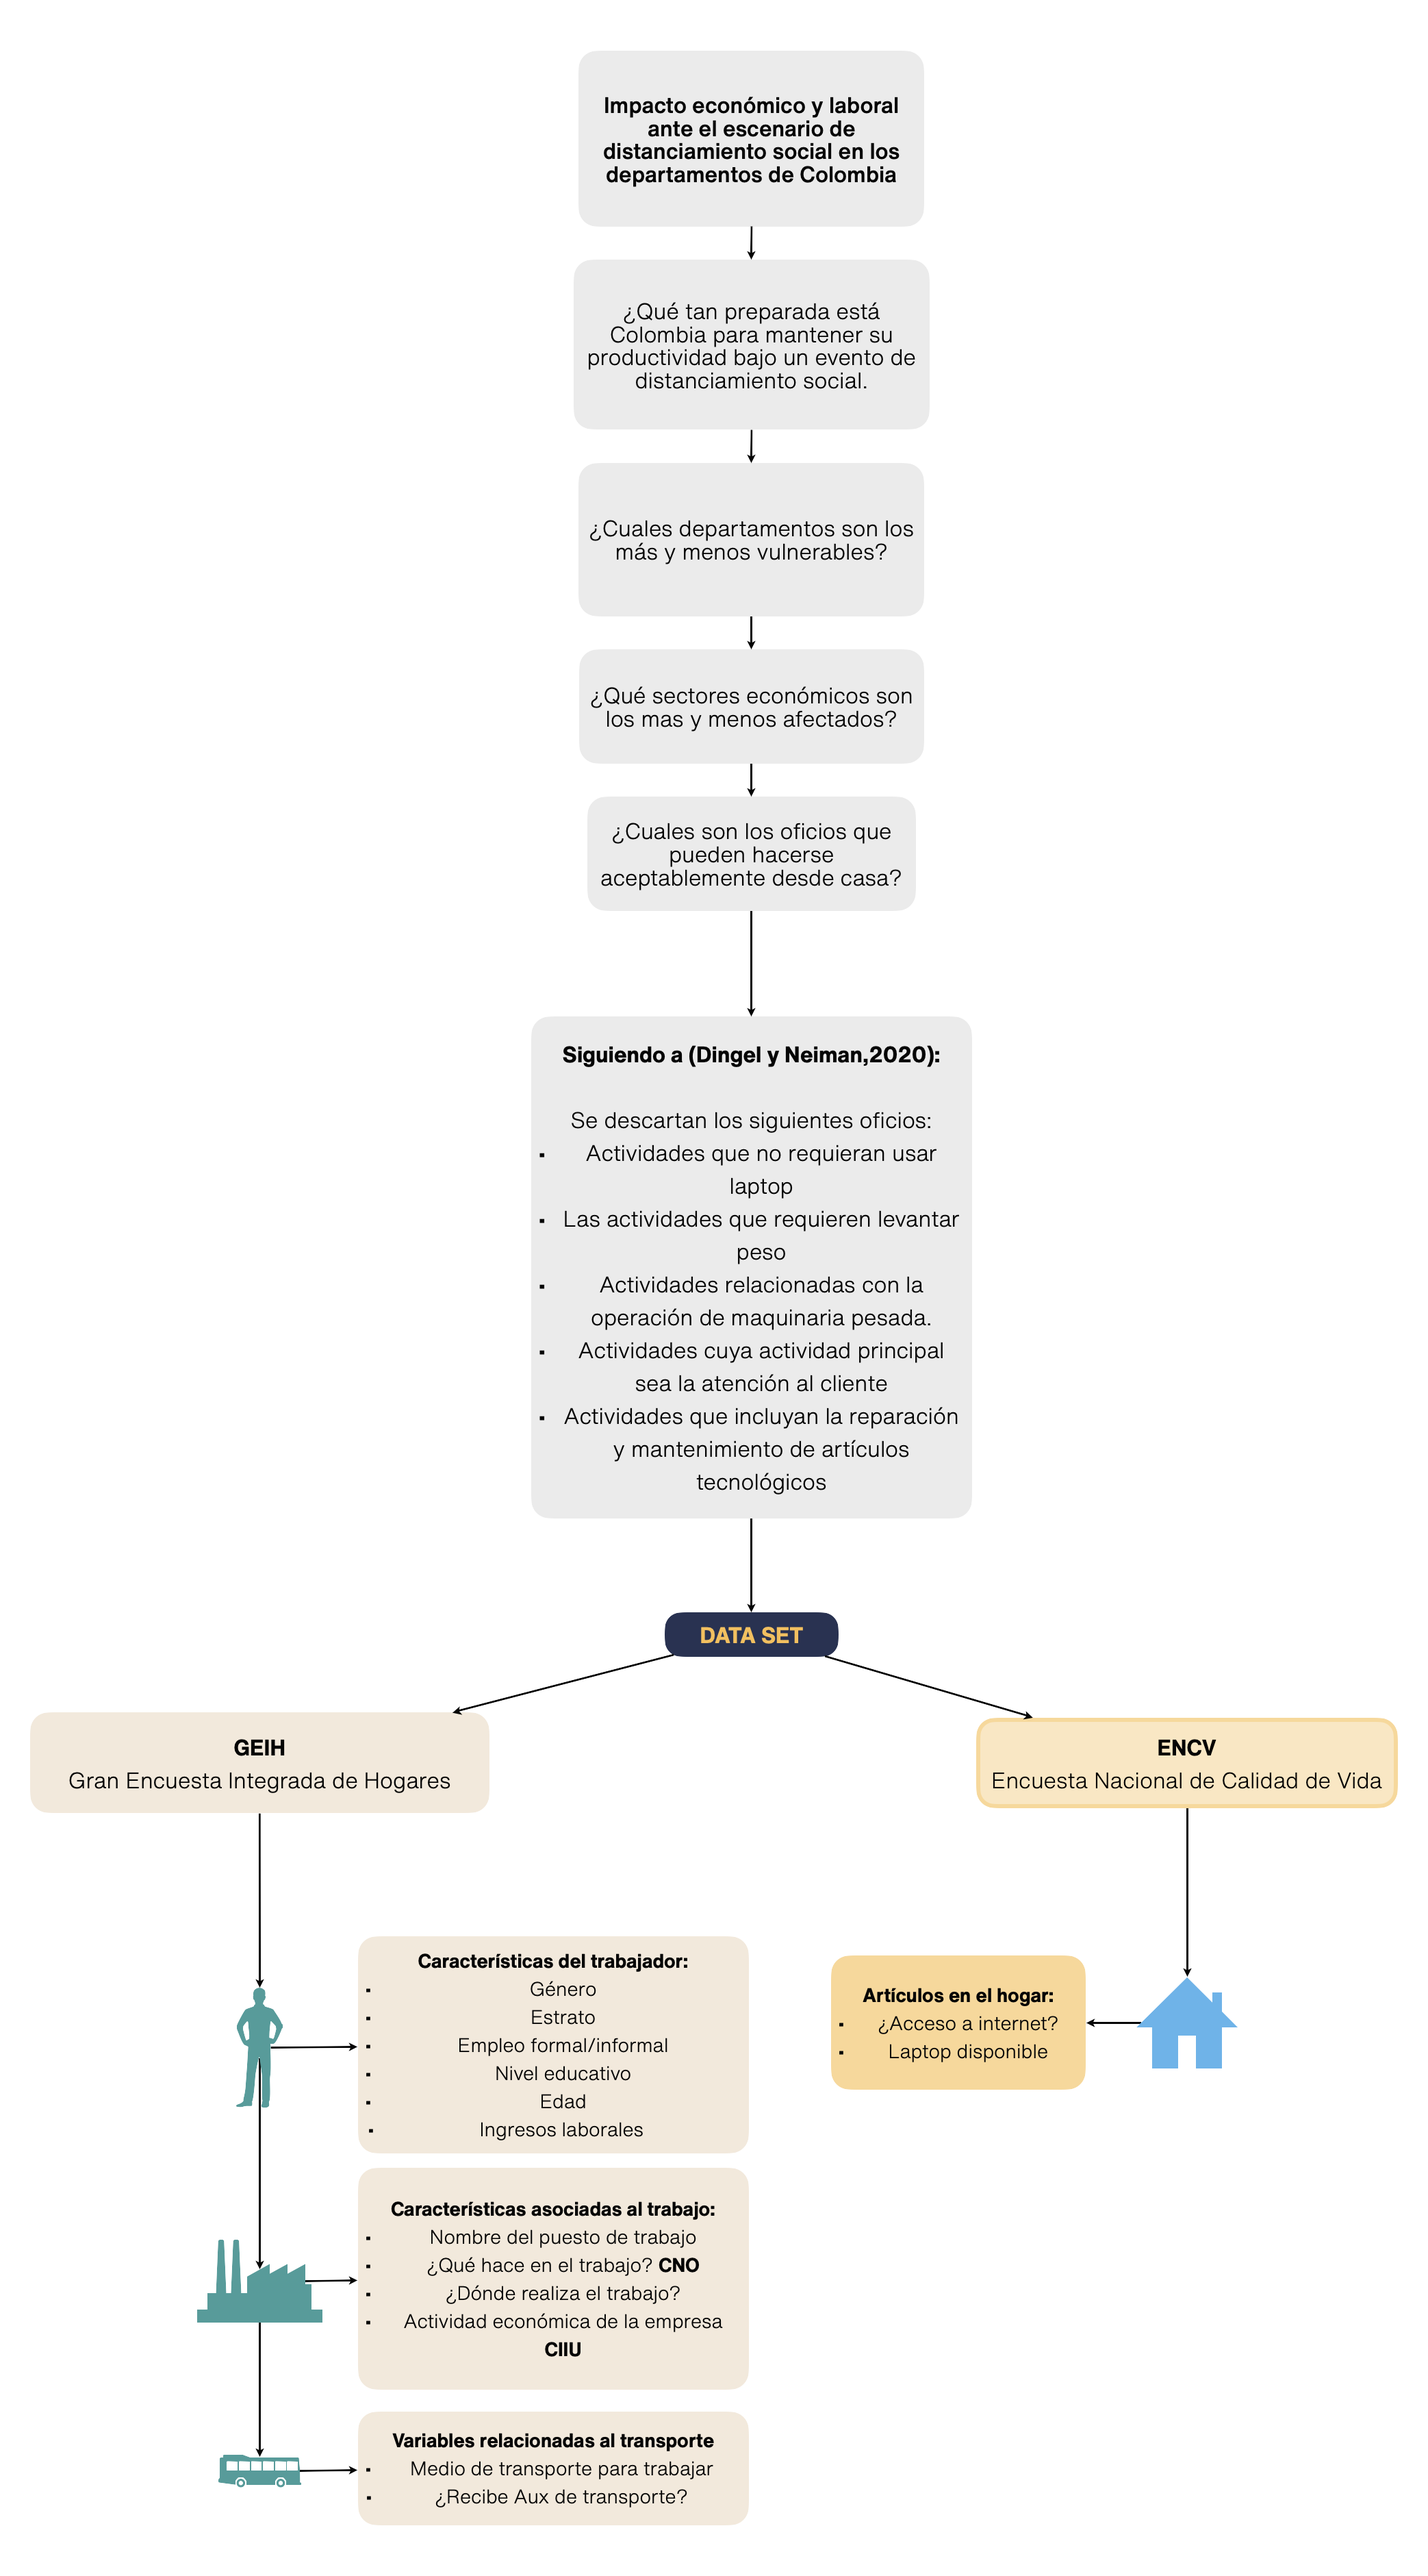
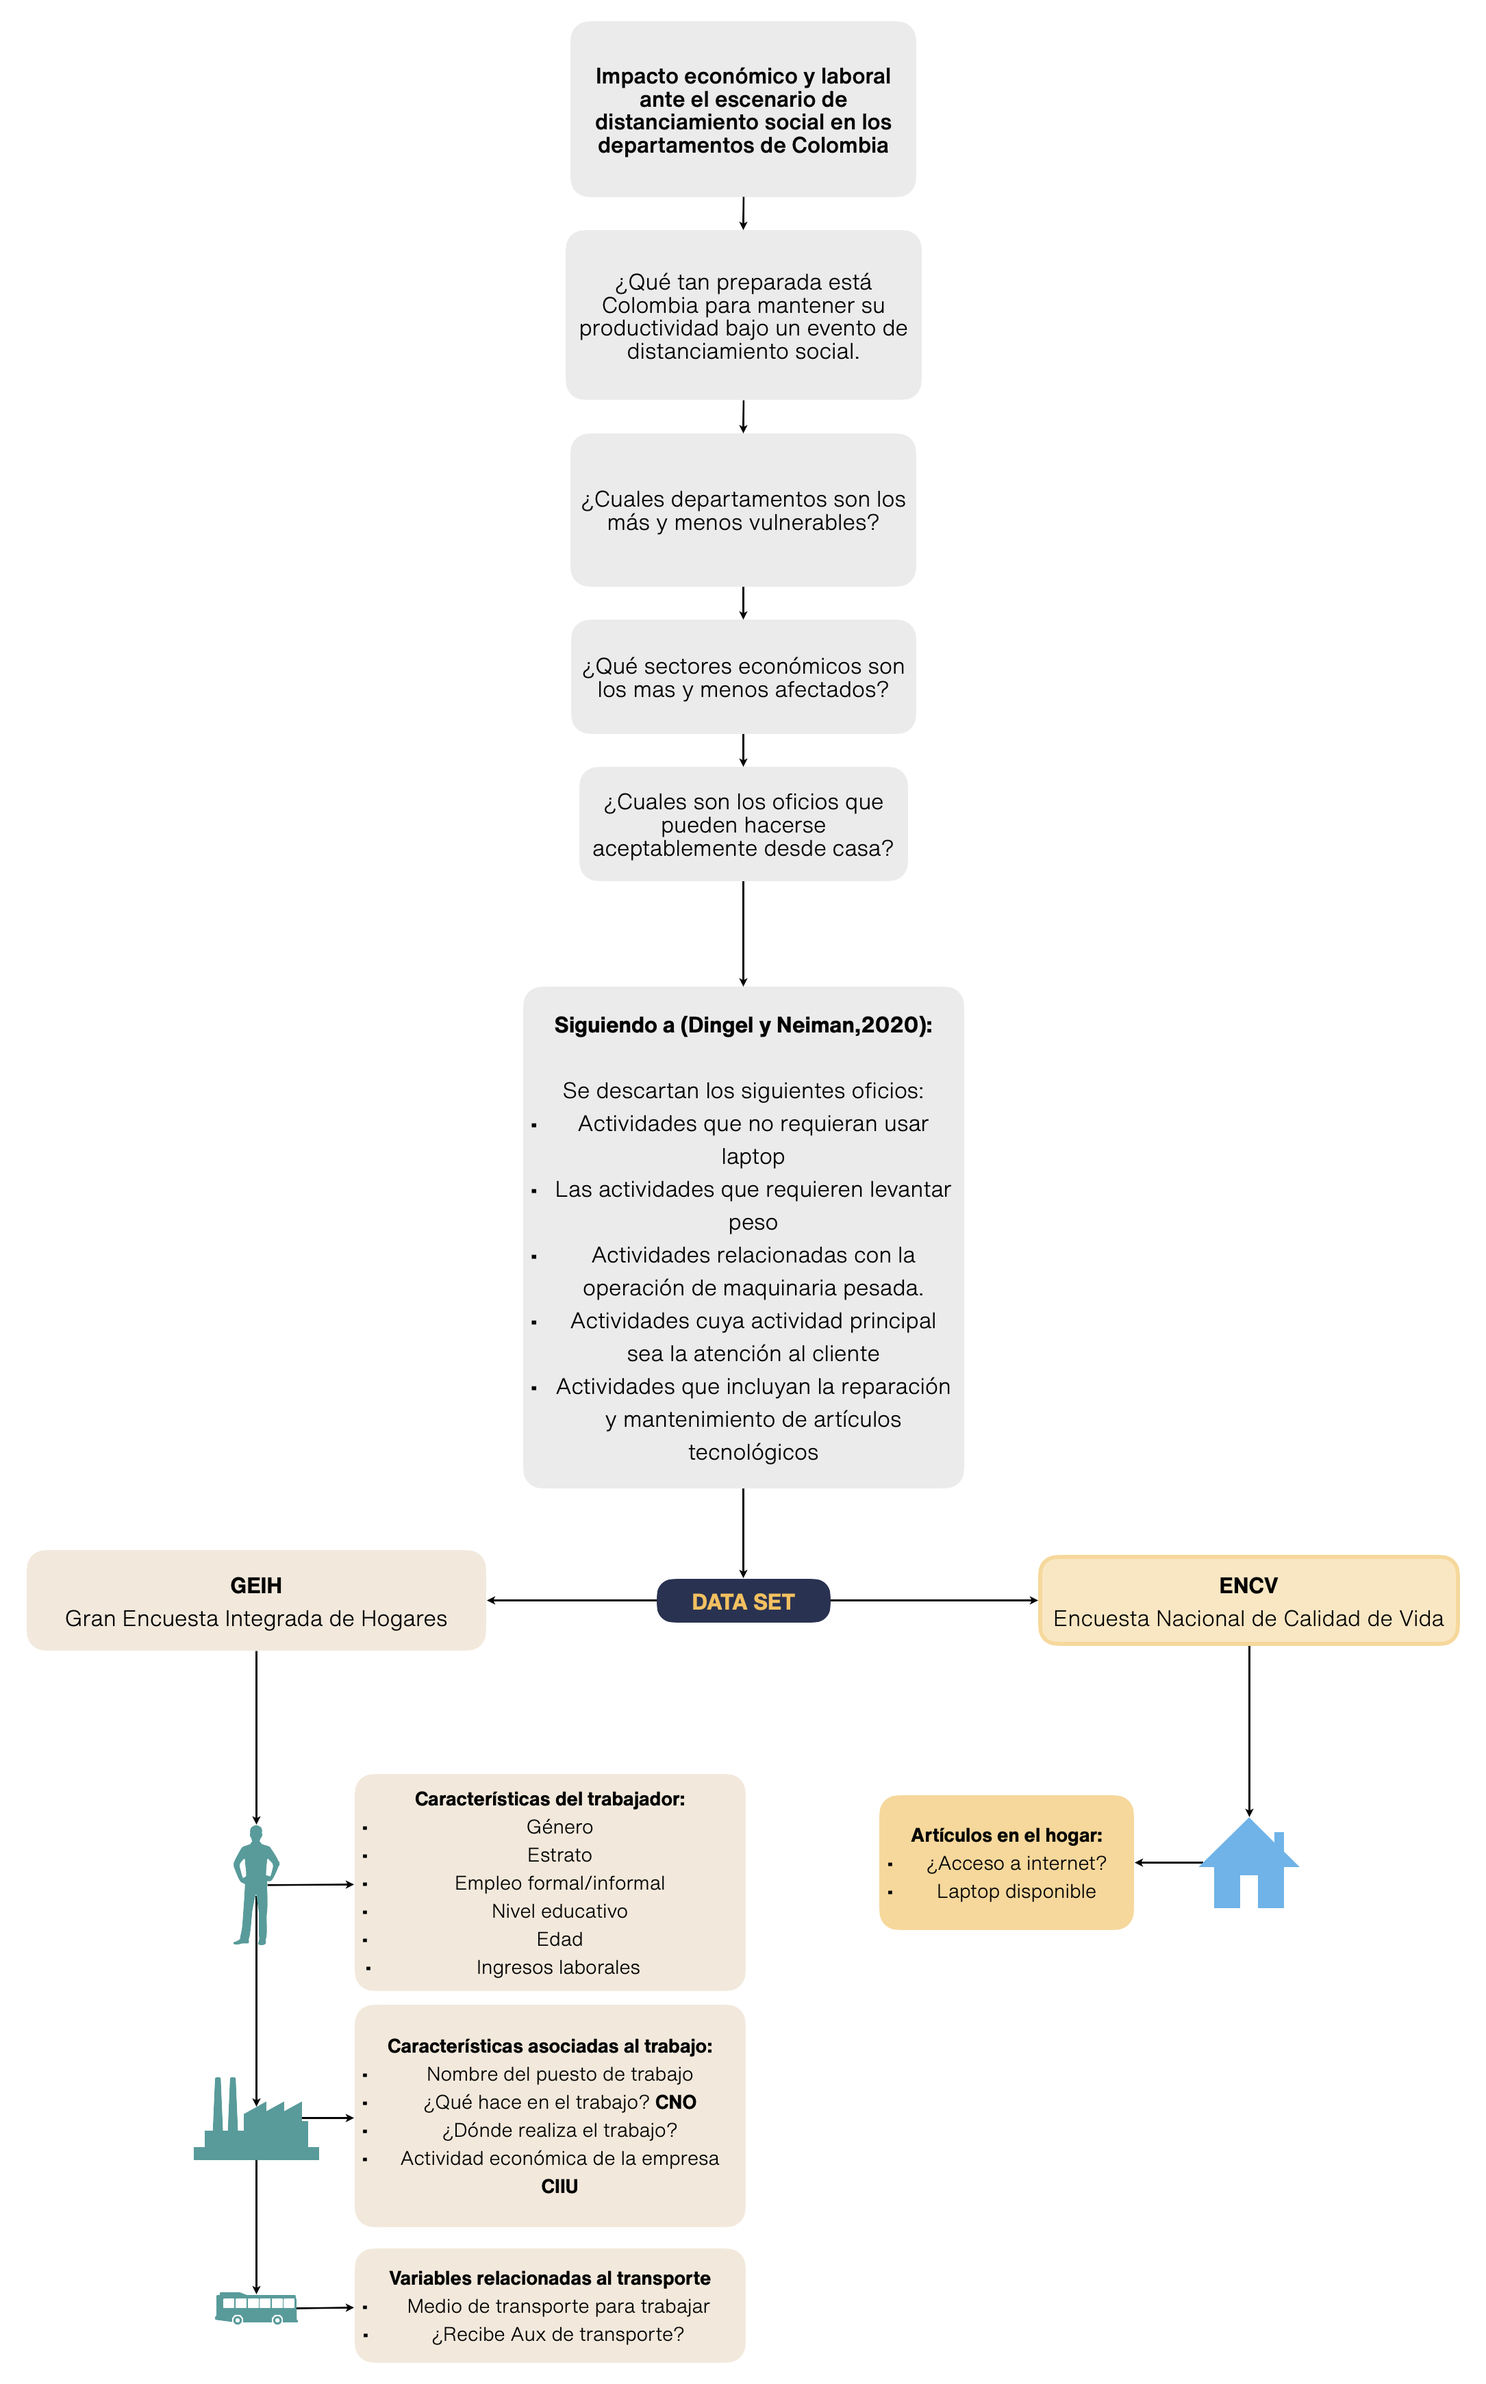
Add Diagramas

diff --git a/css/style.css b/css/style.css
@@ -54,6 +54,14 @@ p {
   margin-bottom: 10rem;
 }
 
+.diagrama h2 {
+  margin-bottom: 4rem;
+}
+
+.diagrama2 h2 {
+  margin-bottom: 4rem;
+}
+
 /* PORTADA */
 .seccion1 {
   text-align: center;
@@ -84,14 +92,18 @@ p {
   text-align: center;
 }
 
+.diagrama2 {
+  text-align: center;
+}
+
 /* RESPONSIVE TEXT ON DEVICES */
 @media (max-width: 480px) {
   html {
     font-size: 12px;
   }
 
-  .diagrama img {
-    width: 30rem;
+  .responsive img {
+    width: 20rem;
   }
 }
 
@@ -100,8 +112,8 @@ p {
     font-size: 13px;
   }
 
-  .diagrama img {
-    width: 25rem;
+  .responsive img {
+    width: 10rem;
   }
 }
 
@@ -110,7 +122,7 @@ p {
     font-size: 14px;
   }
 
-  .diagrama img {
+  .responsive img {
     width: 35rem;
   }
 }
@@ -120,7 +132,7 @@ p {
     font-size: 15px;
   }
 
-  .diagrama img {
+  .responsive img {
     width: 40rem;
   }
 }
@@ -130,7 +142,7 @@ p {
     font-size: 16px;
   }
 
-  .diagrama img {
+  .responsive img {
     width: 50rem;
   }
 }

diff --git a/index.html b/index.html
@@ -29,7 +29,7 @@
 
   <!-- LOGO UIS -->
   <div class="logouis">
-    <img src="css/img/logo-uis.png" alt="" class="responsive">
+    <img src="css/img/logo-uis.png" alt="">
   </div>
   <h1>Impacto económico y laboral ante el escenario de distanciamiento social en los departamentos de Colombia</h1>
 
@@ -113,13 +113,22 @@
     </p>
   </div>
 
-  <div class="diagrama contenedor">
+  <div class="diagrama responsive contenedor">
 
-    <h2>Diagrama</h2>
+    <h2>Proceso General a específico</h2>
 
 
     <img src="css/img/diagrama.png" alt="">
   </div>
+
+  <div class="diagrama2 responsive contenedor">
+
+    <h2>Diagrama Alcance</h2>
+
+
+    <img src="css/img/diagrama2.png" alt="">
+  </div>
+
 
 
 
